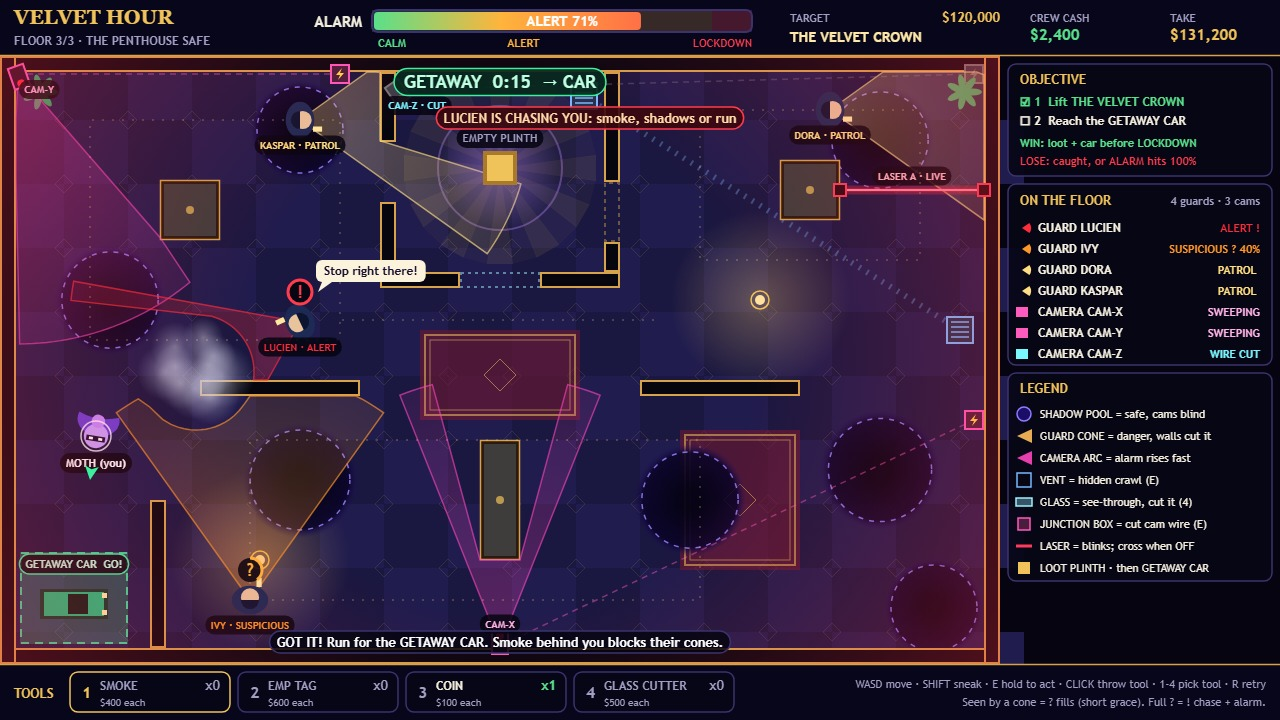
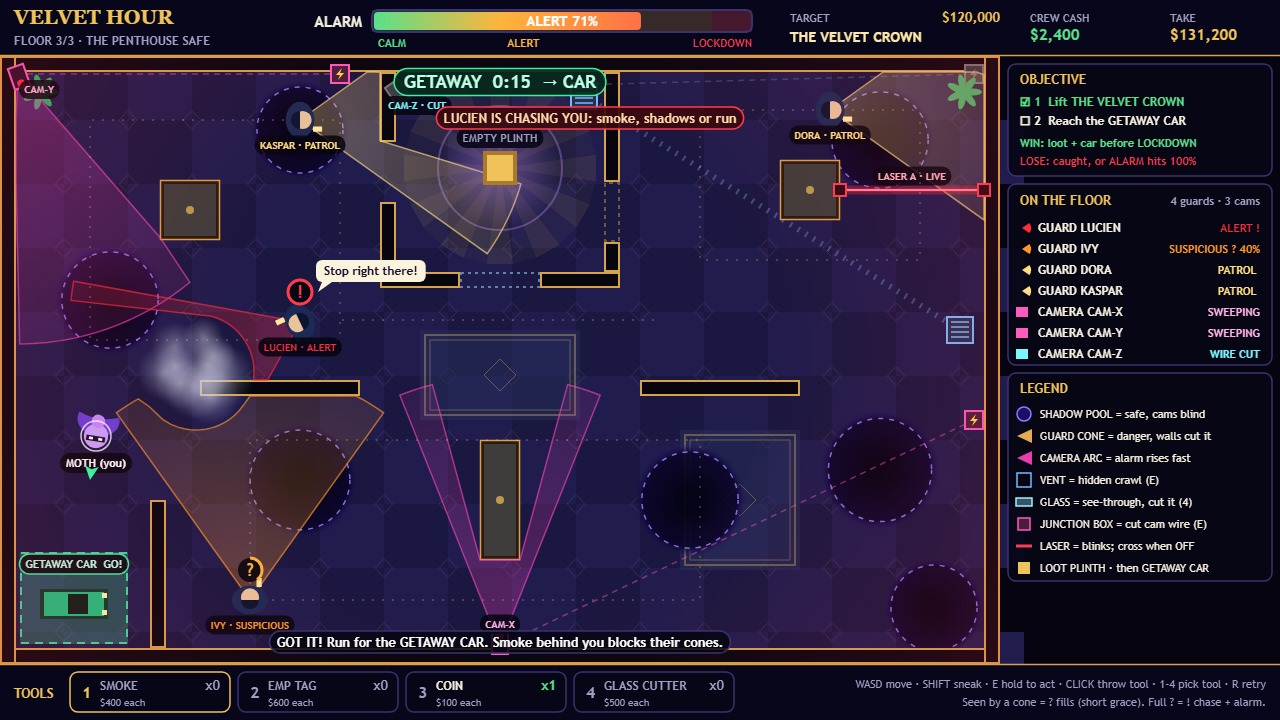
v4: clearer danger at a glance: neutral rugs, no warm lamp pools, subtler tension glow

diff --git a/game/src/floors.js b/game/src/floors.js
@@ -51,8 +51,6 @@ export const FLOORS = [
       { kind: 'rug', x: 200, y: 380, w: 150, h: 90 },
       { kind: 'plant', x: 964, y: 628 },
       { kind: 'plant', x: 300, y: 92 },
-      { kind: 'lamp', x: 420, y: 200 },
-      { kind: 'lamp', x: 860, y: 420 },
     ],
     guards: [
       { name: 'BRUNO', route: [[560, 180], [840, 180], [840, 500], [560, 500]], pause: 0.8 },
@@ -110,9 +108,6 @@ export const FLOORS = [
       { kind: 'plant', x: 36, y: 92 },
       { kind: 'plant', x: 230, y: 92 },
       { kind: 'plant', x: 964, y: 640 - 12 },
-      { kind: 'lamp', x: 150, y: 260 },
-      { kind: 'lamp', x: 840, y: 330 },
-      { kind: 'lamp', x: 600, y: 610 },
     ],
     guards: [
       { name: 'VANCE', route: [[360, 216], [680, 216], [680, 494], [360, 494]], pause: 0.6 },
@@ -170,8 +165,6 @@ export const FLOORS = [
       { kind: 'rug', x: 680, y: 430, w: 120, h: 140 },
       { kind: 'plant', x: 40, y: 92 },
       { kind: 'plant', x: 964, y: 92 },
-      { kind: 'lamp', x: 260, y: 560 },
-      { kind: 'lamp', x: 760, y: 300 },
     ],
     guards: [
       { name: 'LUCIEN', route: [[340, 320], [660, 320]], pause: 1.2 },

diff --git a/game/src/render/floor-art.js b/game/src/render/floor-art.js
@@ -264,9 +264,9 @@ function car(ctx, state) {
 function decor(ctx, floor, layer) {
   for (const d of floor.decor ?? []) {
     if (layer === 'under' && d.kind === 'rug') {
-      ctx.fillStyle = 'rgba(120,24,48,0.55)';
+      ctx.fillStyle = 'rgba(40,52,96,0.45)';
       ctx.fillRect(d.x, d.y, d.w, d.h);
-      ctx.strokeStyle = 'rgba(240,194,90,0.55)';
+      ctx.strokeStyle = 'rgba(240,194,90,0.35)';
       ctx.lineWidth = 2;
       ctx.strokeRect(d.x + 5, d.y + 5, d.w - 10, d.h - 10);
       ctx.lineWidth = 1;

diff --git a/game/src/render/hud.js b/game/src/render/hud.js
@@ -291,7 +291,7 @@ function tension(ctx, state) {
   const cy = PLAY.y + PLAY.h / 2;
   const g = ctx.createRadialGradient(cx, cy, PLAY.h * 0.42, cx, cy, PLAY.w * 0.62);
   g.addColorStop(0, 'rgba(255,40,60,0)');
-  g.addColorStop(1, `rgba(255,40,60,${0.32 * k})`);
+  g.addColorStop(1, `rgba(255,40,60,${0.16 * k})`);
   ctx.fillStyle = g;
   ctx.fillRect(PLAY.x, PLAY.y, PLAY.w, PLAY.h);
   let warn = '';
